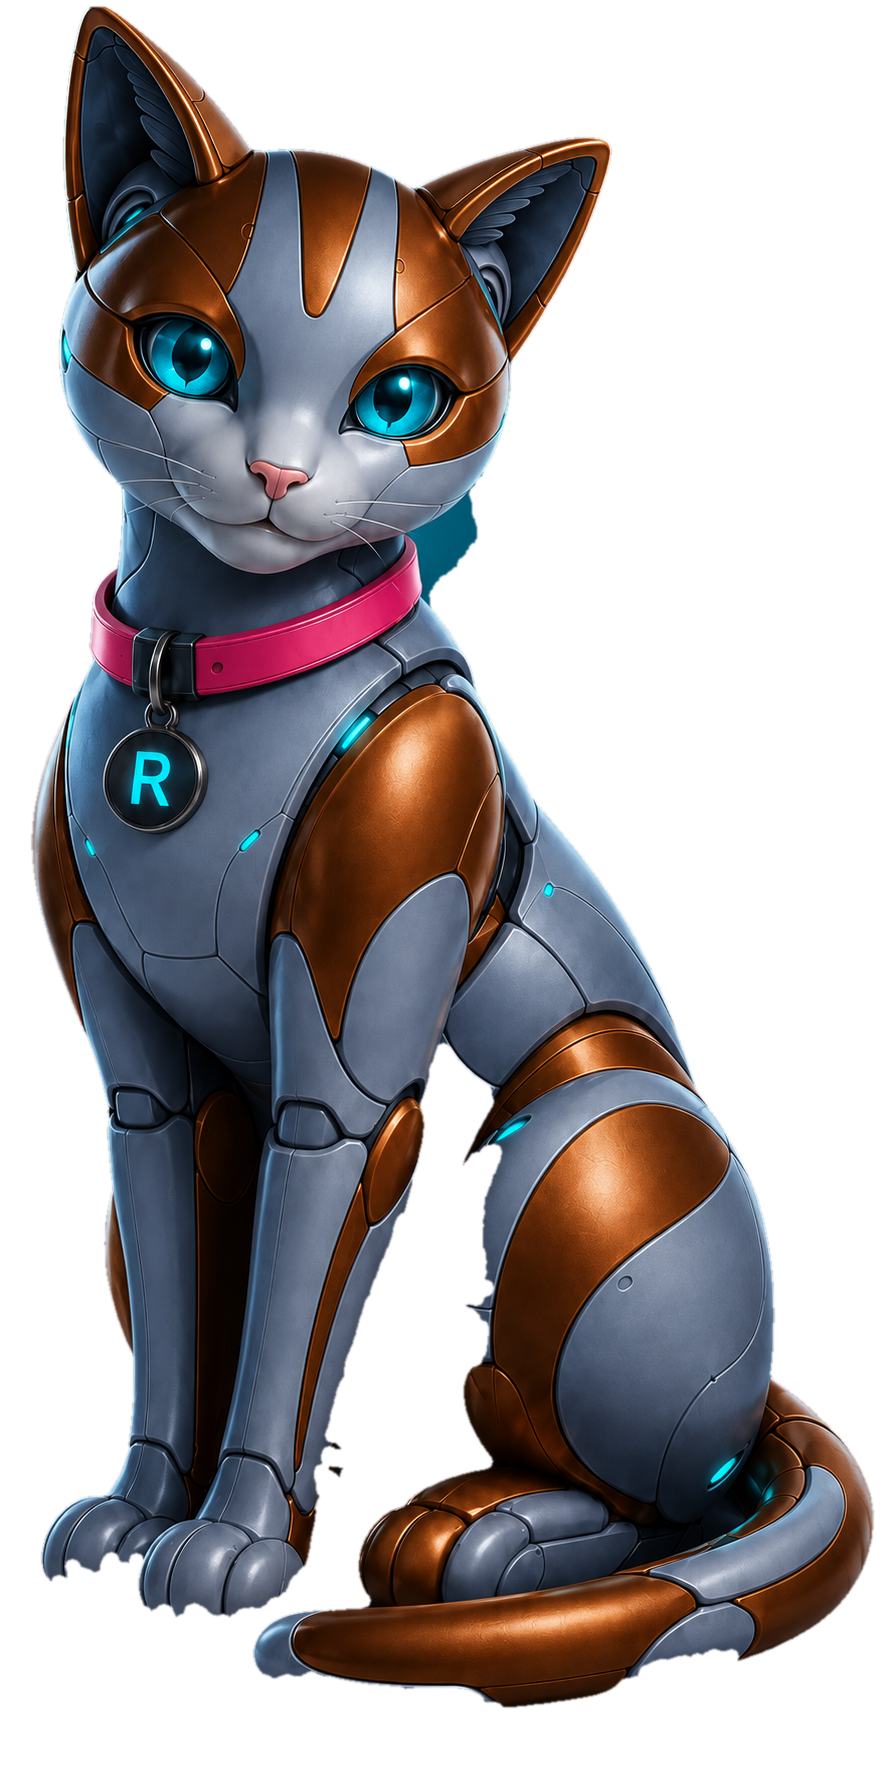
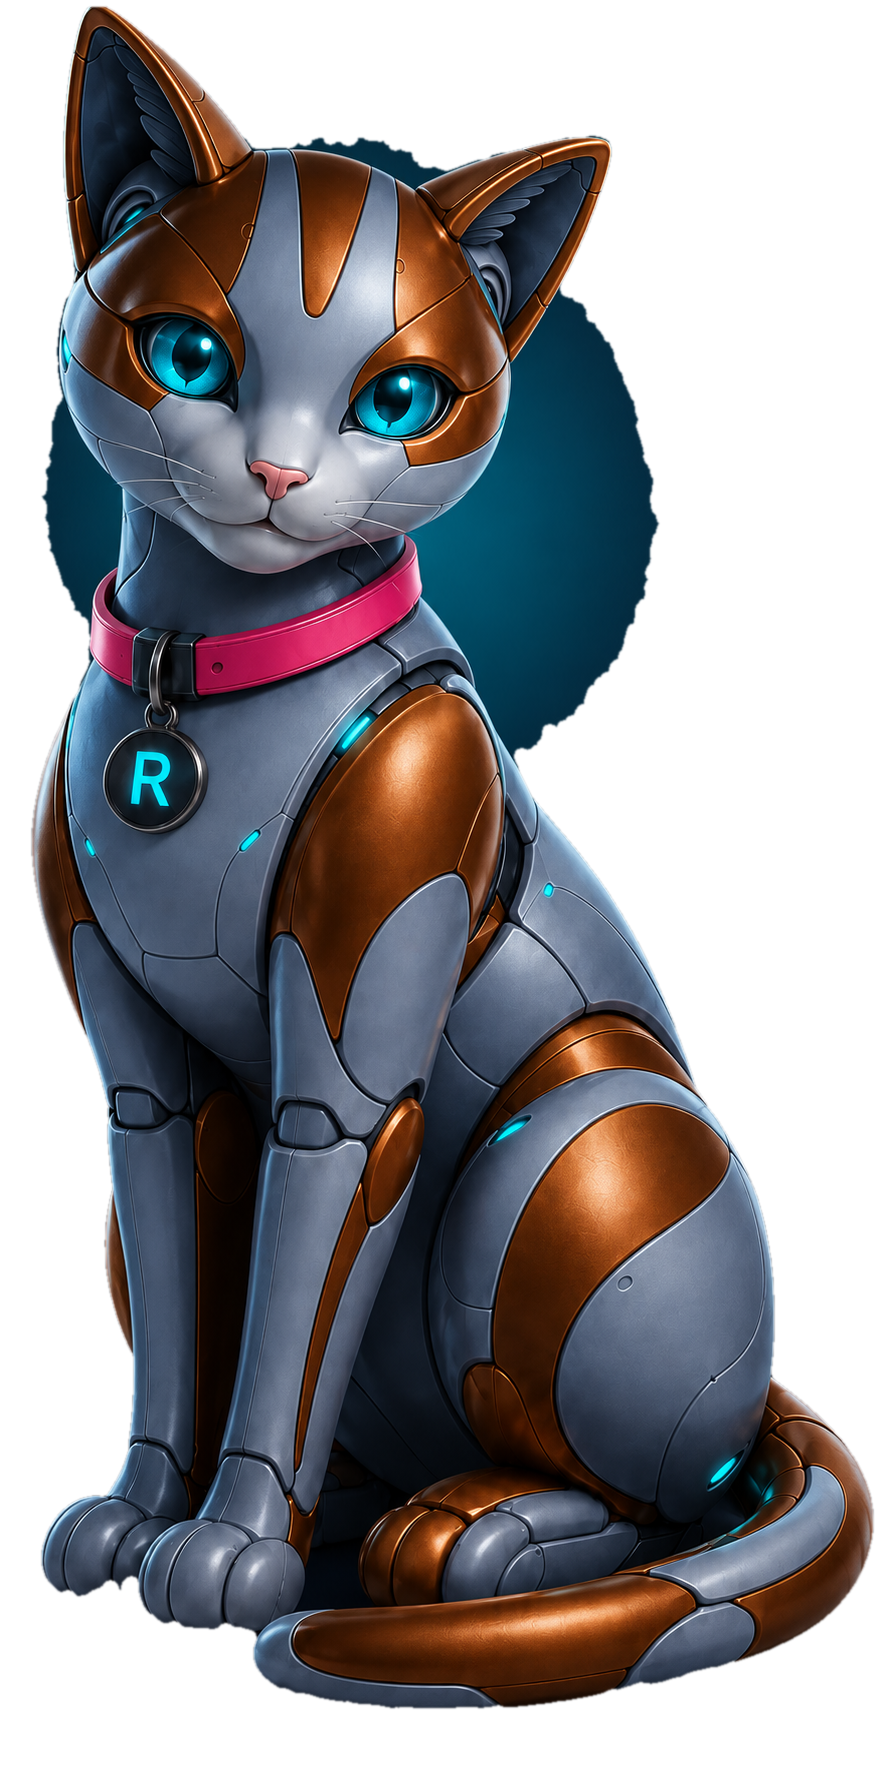
Dark mascot cut-out: keep the abdomen, the toes and the tail
The first cut chopped the shadowed abdomen, the front paws' toes and the
underside of the tail out of the silhouette, and on the hero the roster
band showed through the cat's belly.

The cause was the rule the first attempt settled on — a pixel is cat if it
is bright enough to be lit plating or warm enough to be copper. Those
three areas are neither. They are shadowed grey-blue, and the deepest of
them is darker than the backdrop it sits on: the abdomen measures
rgb(9,14,22) where the backdrop beside it is rgb(7,16,31). No threshold
separates those, in either direction.

Geometry does. Keyed tightly — at 36, above the backdrop's own ceiling of
33 and far below the cat's shadows rather than anywhere near them — the
abdomen's shadow is enclosed by the legs and haunch instead of open to the
frame's edge, so filling holes restores it along with the toes and the
tail. The window is real but narrow: at 44 the pocket joins the outside
and the abdomen is lost again, which is why the threshold sits near the
floor of it.

Keying this tightly leaves the backdrop's glow as a soft halo around the
silhouette. That is a deliberate trade, not an oversight: the asset's job
is the dark panel, where the halo is invisible against it, and both
bounded trims that removed it also took about a thousand pixels of whisker
with them.

The script now asserts on the four places a loose key destroys first, so
this particular regression cannot ship again unnoticed. Checked against
[…]

diff --git a/tools/cutout-dark-mascot.py b/tools/cutout-dark-mascot.py
@@ -1,23 +1,27 @@
-"""Cut the dark-theme RotaCat mascot out of its navy backdrop.
+"""Cut the dark-theme RotaCat mascot off its navy backdrop.
 
-The obvious approach — key out the backdrop — does not work here, for three
-reasons found the hard way:
+The auth hero draws its roster band in the DOM behind the mascot so the
+pills can pulse, so the asset has to be transparent — the light-theme
+mascot is a cut-out for the same reason.
 
-  * The backdrop is a smooth radial gradient (luminance 14-33), not a flat
-    colour, so there is no single colour to key.
-  * The cat is drawn with dark navy seam lines between its plates, as dark
-    and as blue as the backdrop. Keying them out opens slots straight
-    through the body, which on the auth hero would let the roster band
-    pulse through the cat's chest.
-  * A soft glow rings the silhouette. Any threshold loose enough to remove
-    it is loose enough to eat the cat's own shadowed plating.
+What makes this image awkward is that parts of the cat are darker than the
+backdrop. The belly in shadow is rgb(9,14,22) against a backdrop of
+rgb(7,16,31): no colour rule can tell them apart, and a threshold loose
+enough to remove the backdrop's glow chews the abdomen, the toes and the
+underside of the tail straight out of the silhouette.
 
-So this works the other way round: find the *cat* rather than the
-backdrop. A pixel belongs to the cat if it is bright enough to be lit
-plating, or warm enough to be copper or the rose collar — neither of which
-the backdrop or its glow ever is. That leaves the seam lines and the inner
-ears out, and they come back as enclosed holes, which is exactly what they
-are.
+Geometry is what saves it. Keyed tightly — below the backdrop's own
+ceiling of 33 rather than anywhere near the cat's shadows — the shadowed
+belly is *enclosed* by the legs and haunch rather than open to the frame's
+edge, so filling holes restores it. That only holds under about 44: above
+that the pocket joins the outside and the abdomen is lost.
+
+The cost of keying this tightly is that the backdrop's glow, which is
+brighter than the threshold, stays as a soft halo around the silhouette.
+That is deliberate. This asset's whole job is to sit on the dark panel,
+where the halo is invisible against it; every attempt to trim it also took
+the whiskers with it (~1000px above luminance 70), which is the worse
+trade by far.
 """
 import numpy as np
 from PIL import Image
@@ -26,12 +30,13 @@ from scipy import ndimage
 SRC = 'src/assets/rotaCat-full-body-mascot-dark-theme.png'
 DST = 'src/assets/rotaCat-full-body-mascot-dark-theme-cutout.png'
 
-CAT_LUM = 70    # lit plating starts ~104; the backdrop tops out at 33 and
-                # its glow well below this
-WARM = -6       # blue-minus-red; the copper and the collar are warm, the
-                # backdrop and glow never are
-SEAM_CLOSE = 6  # px radius — seals the seam lines between plates
-FEATHER = 0.9   # px
+# The backdrop measures 14-33 across the frame. 36 clears it; the abdomen
+# pocket stops being enclosed at 44, so this sits deliberately nearer the
+# floor of that window than the ceiling.
+BACKDROP_LUM = 36
+WARM = -6        # blue-minus-red: the copper and collar are warm, the backdrop never is
+SEAM_CLOSE = 6   # px radius — the dark seam lines between the cat's plates
+FEATHER = 0.9    # px
 
 S8 = np.ones((3, 3), bool)
 
@@ -51,25 +56,27 @@ rgb = np.array(Image.open(SRC).convert('RGB')).astype(np.float32)
 lum = 0.2126 * rgb[:, :, 0] + 0.7152 * rgb[:, :, 1] + 0.0722 * rgb[:, :, 2]
 warmth = rgb[:, :, 2] - rgb[:, :, 0]
 
-cat = (lum > CAT_LUM) | (warmth < WARM)
+backdrop = _touches_border((lum < BACKDROP_LUM) & (warmth > WARM))
 
-# Close the seam lines, then fill what they enclose: the seams, the pupils,
-# the dark inner ears. Closing only ever adds, so the whiskers — one or two
-# pixels wide — survive it, where an erosion would have cost them.
-subject = ndimage.binary_fill_holes(ndimage.binary_closing(cat, structure=_disk(SEAM_CLOSE)))
+# Everything the backdrop does not reach is the cat — including the shadowed
+# belly, which is enclosed rather than open.
+subject = ndimage.binary_fill_holes(~backdrop)
 
-# Anything still open to the frame's edge is backdrop, however bright the
-# glow made it.
-subject = ndimage.binary_fill_holes(~_touches_border(~subject))
+# The plates are separated by seam lines as dark as the backdrop. Where one
+# runs out to the silhouette's edge it opens a slot through the body, which
+# on the hero would let the band pulse through the cat. Closing seals any
+# intrusion narrower than 2*SEAM_CLOSE, and only ever adds — so unlike an
+# erosion it cannot cost the whiskers.
+subject = ndimage.binary_fill_holes(ndimage.binary_closing(subject, structure=_disk(SEAM_CLOSE)))
 
-# One pixel in, so no rim of backdrop rides along as a fringe on a ground
-# that isn't navy.
 subject = ndimage.binary_erosion(subject, structure=S8)
 
 alpha = np.clip(ndimage.gaussian_filter(subject.astype(np.float32), FEATHER), 0, 1)
 Image.fromarray(np.dstack([rgb, alpha * 255]).astype(np.uint8), 'RGBA').save(DST)
 
-ys, xs = np.where(alpha > 0.5)
-print('wrote %s' % DST)
-print('opaque %.1f%% of frame; bbox x[%d:%d] y[%d:%d] of %dx%d'
-      % (100 * (alpha > 0.5).mean(), xs.min(), xs.max(), ys.min(), ys.max(), rgb.shape[1], rgb.shape[0]))
+# The four places a loose key destroys first — a regression check, not decoration.
+for name, (y, x) in {'abdomen': (1255, 425), 'paw underside': (1580, 150),
+                     'toe gap': (1545, 187), 'tail lower edge': (1690, 430)}.items():
+    assert alpha[y, x] > 0.5, '%s went transparent' % name
+print('wrote %s — opaque %.1f%% of frame; abdomen, toes and tail all solid'
+      % (DST, 100 * (alpha > 0.5).mean()))
